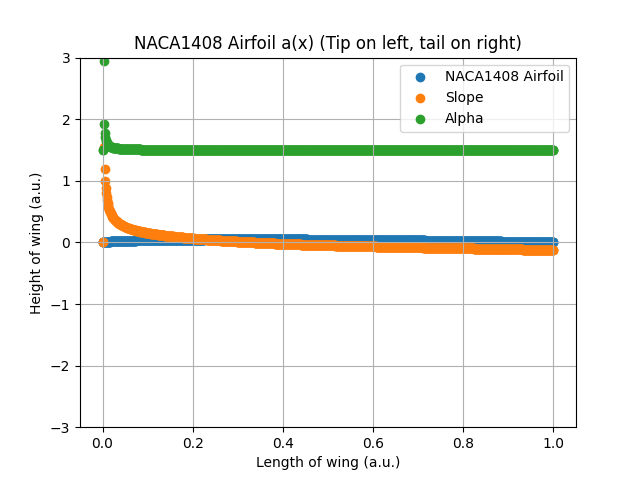
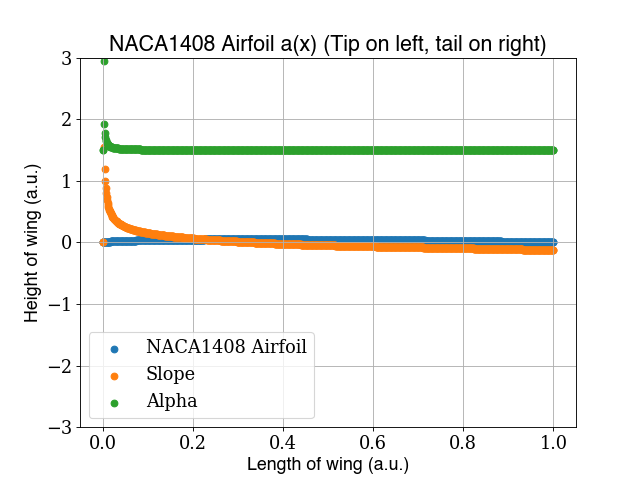
many figures

diff --git a/main_airfoil.py b/main_airfoil.py
@@ -2,8 +2,16 @@
 # MIT License
 import matplotlib.pyplot as plt
 import numpy as np
+import matplotlib
 import matplotlib.animation as animation
 import re
+
+font = {'family' : 'serif',
+        'size'   : 16}
+csfont = {'fontname':'Helvetica'}
+
+matplotlib.rc('font', **font)
+
 
 def get_airfoil_positions():
     """
@@ -89,8 +97,6 @@ def get_airfoil_alpha_function(x, y):
     alpha_1_length = float(2/points)
     alpha = []
     first = True
-    print(x)
-    print(y)
     for count, point in enumerate(x, 0):
         if first:
             first = False
@@ -101,6 +107,33 @@ def get_airfoil_alpha_function(x, y):
     return alpha, t
 
 
+def get_normalized_backlash(b, L):
+    """
+    For a revolute robotic joint, return normalized backlash value
+    :param b: outer radius minus inner radius of joint, backlash
+    :param L: Float for cell size
+    :return: Float between 0 and 1, typically far less than 0.1
+    """
+    # Init b_norm
+    b_norm = b/L
+    return b_norm
+
+
+def get_max_curvature(d, b, L):
+    """
+    Given a set of cells of thickness d, backlash b, and cell link length L, get max curvature.
+    All metrics need to be in the same units of length
+    :param d: Float for cell thickness
+    :param b: Float for cell backlash
+    :param L: Float for cell size
+    :return:
+    """
+    theta = np.arctan(b/d)
+    max_curvature = np.sin(theta)/L
+    print(max_curvature)
+    return max_curvature
+
+
 def plot_airfoil_slope(x, a, y, alpha):
     """
     Generates plot of slope and alpha across an airfoil
@@ -108,24 +141,99 @@ def plot_airfoil_slope(x, a, y, alpha):
     :param a:
     :return:
     """
-    plt.figure(1)
+    plt.figure(1, figsize=(8, 6), dpi=80)
     plt.scatter(x=x, y=y, label="NACA{} Airfoil".format(NACA_number))
     plt.scatter(x=x[1:], y=a, label="Slope")
     plt.scatter(x=x[1:], y=alpha, label="Alpha")
-    plt.title("NACA{} Airfoil a(x) (Tip on left, tail on right)".format(NACA_number))
-    plt.xlabel("Length of wing (a.u.)")
-    plt.ylabel("Height of wing (a.u.)")
+    plt.title("NACA{} Airfoil a(x) (Tip on left, tail on right)".format(NACA_number), **csfont)
+    plt.xlabel("Length of wing (a.u.)", **csfont)
+    plt.ylabel("Height of wing (a.u.)", **csfont)
     plt.ylim((-3, 3))
     plt.grid()
     plt.legend()
     plt.savefig("./figures/NACA{} Airfoil a(x)".format(NACA_number))
     # plt.show()
     plt.close()
+    plt.figure(2, figsize=(8, 6), dpi=80)
+    plt.scatter(x=x, y=y, label="NACA{} Airfoil".format(NACA_number))
+    plt.title("NACA{} Airfoil a(x) (Tip on left, tail on right)".format(NACA_number), **csfont)
+    plt.xlabel("Length of wing (a.u.)", **csfont)
+    plt.ylabel("Height of wing (a.u.)", **csfont)
+    plt.ylim((0, 0.2))
+    plt.grid()
+    plt.legend()
+    plt.savefig("./figures/NACA{} Airfoil".format(NACA_number))
+    # plt.show()
+    plt.close()
+
+
+def plot_b_L_maxK(b_list, L_list, max_K_list):
+    """
+    Takes in three lists, generated 3D plot
+    :param b_list:
+    :param L_list:
+    :param max_K_list:
+    :return:
+    """
+    fig = plt.figure(figsize=(12, 12))
+    ax = fig.add_subplot(projection='3d')
+    ax.scatter(b_list, L_list, max_K_list)
+    ax.set_title("Max Curvature as Function of Cell Size and Normalized Backlash")
+    ax.set_xlabel('Normalized Backlash [unitless]')
+    ax.set_ylabel('Cell Size [mm]')
+    ax.set_zlabel('Max Curvature [1/mm]')
+    ax.xaxis.labelpad = 30
+    ax.yaxis.labelpad = 30
+    ax.zaxis.labelpad = 30
+    ax.view_init(elev=30, azim=60, roll=0)
+    plt.savefig("./figures/max_curvature.png")
+    plt.show()
+    plt.close()
+    return 0
+
+
+def plot_b_L_dieoff(b_list, L_list, do_list):
+    """
+    Takes in three lists, generated 3D plot
+    :param b_list:
+    :param L_list:
+    :param max_K_list:
+    :return:
+    """
+    fig = plt.figure(figsize=(12, 12))
+    ax = fig.add_subplot(projection='3d')
+    ax.scatter(b_list, L_list, bnorm_list)
+    ax.set_title("Die-off as Function of Cell Size and Normalized Backlash")
+    ax.set_xlabel('Normalized Backlash')
+    ax.set_ylabel('Cell Size')
+    ax.set_zlabel('Max Curvature')
+    plt.show()
+    plt.savefig("./figures/max_curvature.png")
+    return 0
 
 
 if __name__ == '__main__':
+    print("TRL Airfoil Functions")
     NACA_numbers = ["0006", "0009", "0018", "0021", "0024", "1408", "1410", "2408", "4412",
                     "4415", "6409", "6412"]
+
+    # Determine characteristic relationships
+    # Take ranges for thickness, backlash, cell size
+    d_values = np.linspace(0.1, 1.1, 10)
+    b_values = np.linspace(0.1, 2.1, 10)
+    L_values = np.linspace(10, 50, 100)
+    data = []
+    # run through range of reasonable values for b, d, and L
+    for thickness in d_values:
+        for backlash in b_values:
+            for cell_size in L_values:
+                b_norm = get_normalized_backlash(b= backlash, L=cell_size)
+                max_k = get_max_curvature(d=thickness, b=backlash, L=cell_size)
+                data.append([thickness, backlash, cell_size, b_norm, max_k])
+    data_array = np.array(data)
+    # Generate plots from the data
+    plot_b_L_maxK(b_list=data_array[:, 3], L_list=data_array[:, 2], max_K_list=data_array[:, 4])
+    # plot_b_L_dieoff()
 
     data = False
     if data:
@@ -135,7 +243,7 @@ if __name__ == '__main__':
             a_values, t = get_airfoil_slope_function(x=x_values, y=y_values)
             alpha_values, t = get_airfoil_alpha_function(x=x_values, y=y_values)
             plot_airfoil_slope(x_values, a_values, y_values, alpha_values)
-    generated = True
+    generated = False
     if generated:
         for number in NACA_numbers:
             NACA_number = number
